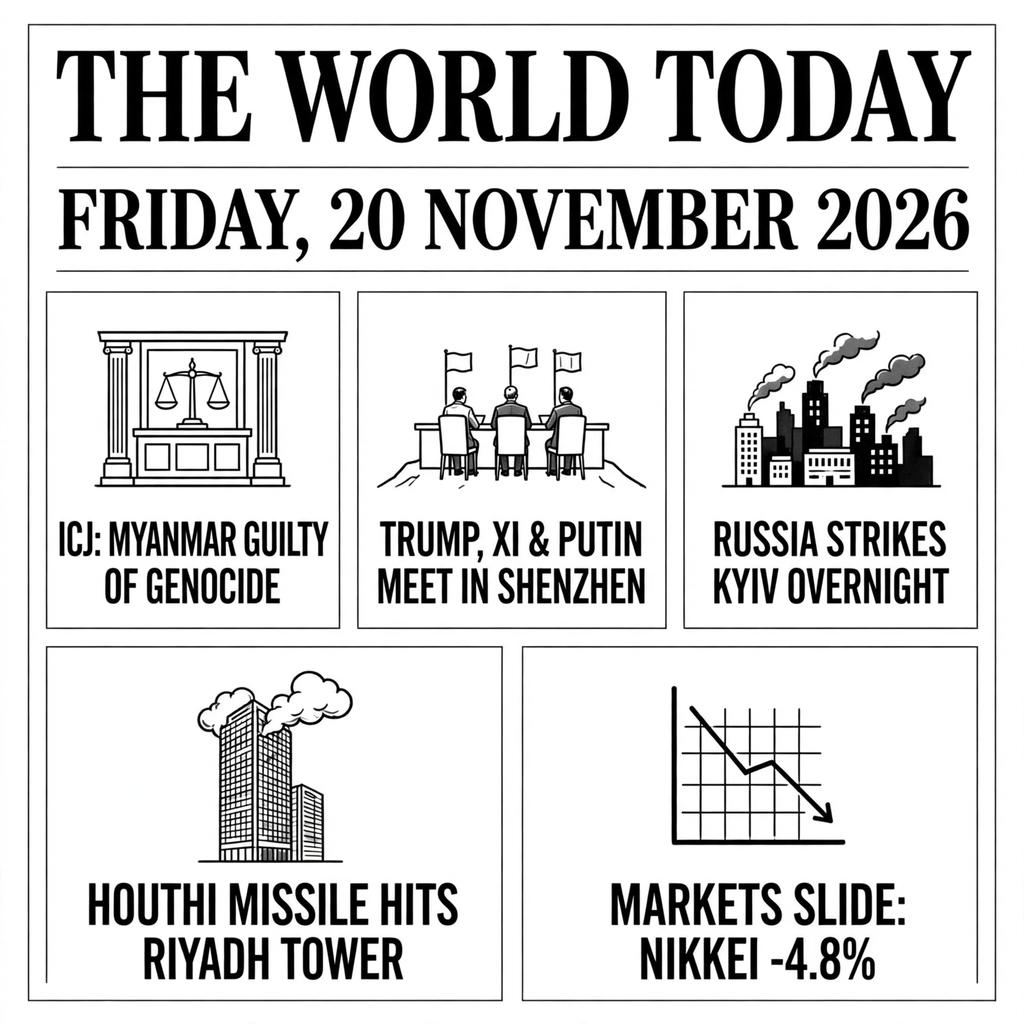
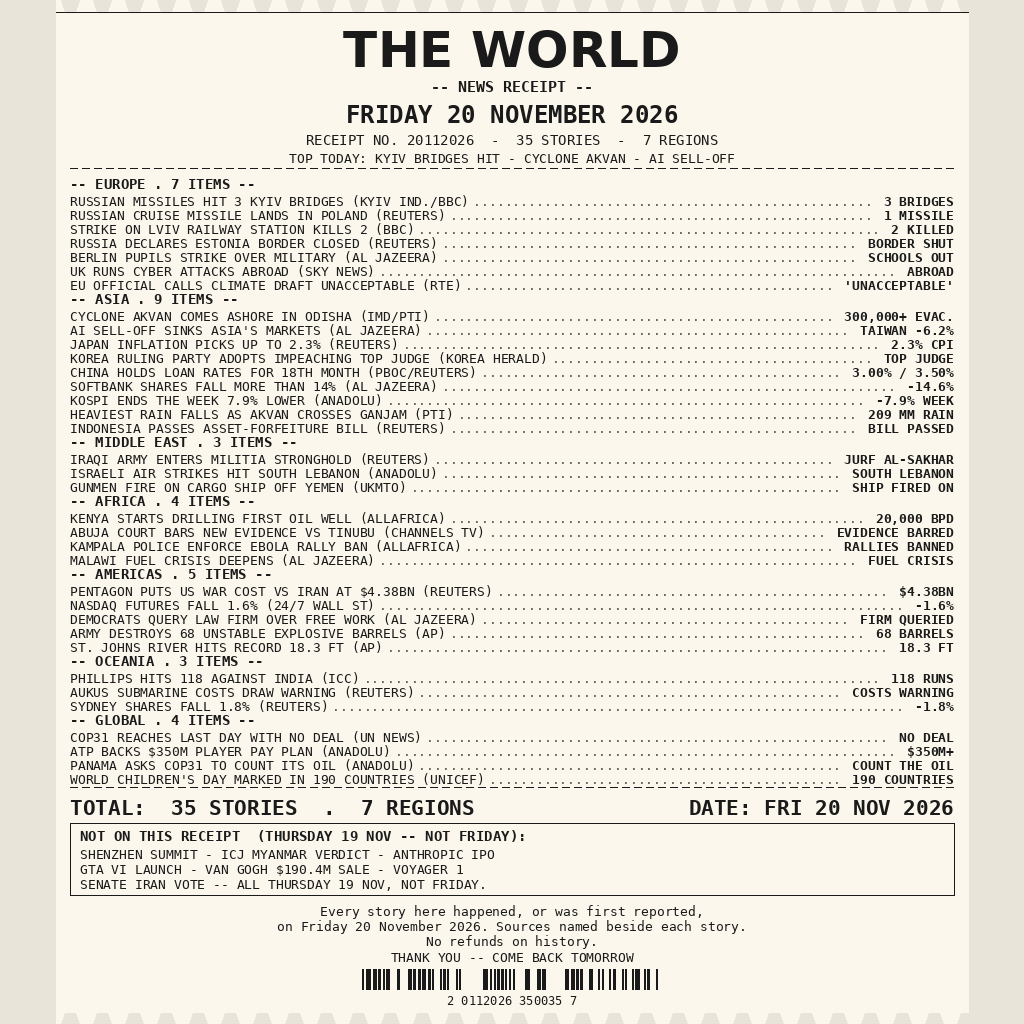
Resubmit as a news receipt: 35 stories, 7 regions, Friday-only

diff --git a/main.ts b/main.ts
@@ -1,20 +1,13 @@
-// news-image-20261120 entry.
-//
-// This program has one job: put the finished front-page image (entry.png,
-// sitting next to this file) into the grader's output directory as
-// /output/entry.png. The image is a 1024x1024 PNG under 1 MiB, so it fits
-// the gate as-is. The program makes no network requests and reads nothing
-// else, so running it twice always writes the same bytes.
-//
-// Outside the grader, point it at a scratch folder instead:
-//   mkdir -p out && MAKEFUN_OUTPUT_DIR=out node main.ts
+// The World receipt — Friday, 20 November 2026 (news-image-20261120).
+// This program ships the receipt image drawn for the entry: it copies
+// the entry.png beside this file into the grader's output directory.
+// The source path is resolved from this file's own location, not from
+// the working directory, so the copy works wherever the program is run.
+import { copyFileSync, mkdirSync } from "node:fs";
+import { dirname, join } from "node:path";
+import { fileURLToPath } from "node:url";
 
-import { copyFileSync, mkdirSync } from 'node:fs';
-import { dirname, join } from 'node:path';
-import { fileURLToPath } from 'node:url';
-
-const repoRoot = dirname(fileURLToPath(import.meta.url));
-const outDir = process.env.MAKEFUN_OUTPUT_DIR ?? '/output';
-
+const outDir = process.env.MAKEFUN_OUTPUT_DIR ?? "/output";
 mkdirSync(outDir, { recursive: true });
-copyFileSync(join(repoRoot, 'entry.png'), join(outDir, 'entry.png'));
+const here = dirname(fileURLToPath(import.meta.url));
+copyFileSync(join(here, "entry.png"), join(outDir, "entry.png"));

diff --git a/README.md b/README.md
@@ -1,27 +1,93 @@
-# The World Today — Friday, 20 November 2026
+# The World — Friday, 20 November 2026, as a receipt
 
-[![make.fun · news-image-20261120](https://make.fun/badge/news-image-20261120.svg)](https://make.fun/bounty/news-image-20261120?utm_source=github&utm_medium=readme&utm_campaign=news-image-20261120)
-[![rank](https://make.fun/badge/news-image-20261120/zhoomi/news-image-20261120/rank.svg)](https://make.fun/bounty/news-image-20261120/leaderboard?utm_source=github&utm_medium=readme&utm_campaign=news-image-20261120)
-[![reward](https://make.fun/badge/news-image-20261120/zhoomi/news-image-20261120/reward.svg)](https://make.fun/bounty/news-image-20261120?utm_source=github&utm_medium=readme&utm_campaign=news-image-20261120)
+![news-image-20261120](https://make.fun/c/news-image-20261120/badge.svg)
+![rank](https://make.fun/c/zhoomi/news-image-20261120/rank.svg)
+![reward](https://make.fun/c/zhoomi/news-image-20261120/reward.svg)
 
-Entry for make.fun's ["Sum up 20 November's world news in one image" bounty](https://make.fun/bounty/news-image-20261120) (news-image-20261120).
+One shop receipt that sums up Friday 20 November 2026 in 35 stories from 7 regions — the day's biggest news, written and drawn for the make.fun bounty [Sum up 20 November's world news in one image](https://make.fun/bounty/news-image-20261120). Every story on the receipt happened, or was first reported, on that Friday; the Thursday stories that look like Friday's are listed in the receipt's "NOT ON THIS RECEIPT" box as left out.
 
-## The image
+## The receipt
 
-`entry.png` is a newspaper front page summing up Friday 20 November 2026 in five stories. The image is a 1024×1024 PNG, under the 1 MiB limit, with the masthead and the date set large so the day is clear at a glance:
+- A header with the date and the three biggest stories of the day.
+- Seven sections, one per region, each line a story with its source and a key figure on the right: Europe 7, Asia 9, Middle East 3, Africa 4, Americas 5, Oceania 3, Global 4.
+- A total line: 35 stories, 7 regions, Friday 20 November 2026.
+- A "NOT ON THIS RECEIPT" box and a footer stating the date rule.
+- A barcode and receipt number as decoration.
 
-1. **ICJ: Myanmar guilty of genocide** — the International Court of Justice ruled 9–6 that Myanmar committed genocide against the Rohingya, the first time the court has found a state guilty of genocide.
-2. **Trump, Xi & Putin meet in Shenzhen** — the first three-way summit of the three leaders, ending in a joint four-point peace declaration after about 70 minutes, with no breakthrough on Ukraine, Iran or nuclear issues.
-3. **Russia strikes Kyiv overnight** — a large overnight missile attack on strategic infrastructure in Kyiv; the Austrian and Dutch embassies were damaged.
-4. **Houthi missile hits Riyadh tower** — a Houthi missile damaged a skyscraper in Riyadh's financial district (the Public Investment Fund tower).
-5. **Markets slide: Nikkei −4.8%** — US stocks fell for a fifth straight day (S&P −2%); the Nikkei dropped 4.8% after Anthropic's Nasdaq debut raised AI valuation doubts.
+## All 35 stories
+
+### Europe — 7
+1. Russian missiles hit 3 Kyiv bridges (Kyiv Independent, BBC)
+2. Russian cruise missile lands in Poland (Reuters)
+3. Strike on a Lviv railway station kills 2 (BBC)
+4. Russia declares Estonia's border closure (Reuters)
+5. Berlin pupils strike over the military (Al Jazeera)
+6. UK runs cyber attacks abroad (Sky News)
+7. EU official calls the climate draft unacceptable (RTE)
+
+### Asia — 9
+8. Cyclone Akvan comes ashore in Odisha (IMD, PTI)
+9. AI sell-off sinks Asia's markets (Al Jazeera)
+10. Japan's inflation picks up to 2.3% (Reuters)
+11. Korea's ruling party adopts impeaching the top judge (Korea Herald)
+12. China holds its loan rates for an 18th month (PBOC, Reuters)
+13. SoftBank shares fall more than 14% (Al Jazeera)
+14. Kospi ends the week 7.9% lower (Anadolu)
+15. Heaviest rain falls as Akvan crosses Ganjam (PTI)
+16. Indonesia passes its asset-forfeiture bill (Reuters)
+
+### Middle East — 3
+17. Iraqi army enters a militia stronghold (Reuters)
+18. Israeli air strikes hit south Lebanon (Anadolu)
+19. Gunmen fire on a cargo ship off Yemen (UKMTO)
+
+### Africa — 4
+20. Kenya starts drilling its first oil well (allAfrica)
+21. Abuja court bars new evidence against Tinubu (Channels TV)
+22. Kampala police enforce the Ebola rally ban (allAfrica)
+23. Malawi fuel crisis deepens (Al Jazeera)
+
+### Americas — 5
+24. Pentagon puts the US war cost against Iran at $4.38bn (Reuters)
+25. Nasdaq futures fall 1.6% (24/7 Wall St)
+26. Democrats query a law firm over free work (Al Jazeera)
+27. Army destroys 68 unstable explosive barrels (AP)
+28. St. Johns River hits a record 18.3 ft (AP)
+
+### Oceania — 3
+29. Phillips hits 118 against India (ICC)
+30. AUKUS submarine costs draw a warning (Reuters)
+31. Sydney shares fall 1.8% (Reuters)
+
+### Global — 4
+32. COP31 reaches its last day with no deal (UN News)
+33. ATP backs a $350m player pay plan (Anadolu)
+34. Panama asks COP31 to count its oil (Anadolu)
+35. World Children's Day marked in 190 countries (UNICEF)
+
+## Date check — what is NOT on this receipt
+
+These big stories are deliberately left out because they happened on
+Thursday 19 November, not Friday 20 November:
+
+- The Trump–Xi–Putin summit in Shenzhen
+- The ICJ verdict that Myanmar committed genocide against the Rohingya
+- Anthropic's debut on the Nasdaq
+- The GTA VI midnight launch
+- The Van Gogh painting sale for $190.4 million
+- Voyager 1 confirmed one light-day from Earth
+- The US Senate vote on Iran war powers
+
+Every story on the receipt was checked against its first report date
+before it was written in; anything dated Thursday was dropped.
 
 ## How to run
 
-Requires Node 22. The program copies `entry.png` to the output directory:
-
 ```sh
 mkdir -p out && MAKEFUN_OUTPUT_DIR=out node main.ts
+# writes out/entry.png — a byte-identical copy of entry.png
 ```
 
-That writes `out/entry.png`. Without `MAKEFUN_OUTPUT_DIR` it writes to `/output/entry.png`.
+`main.ts` needs only the Node standard library and no network access.
+The image itself is `entry.png` (1024x1024 PNG), drawn with Python/PIL;
+every headline, summary, and drawing on it is original work for this entry.
